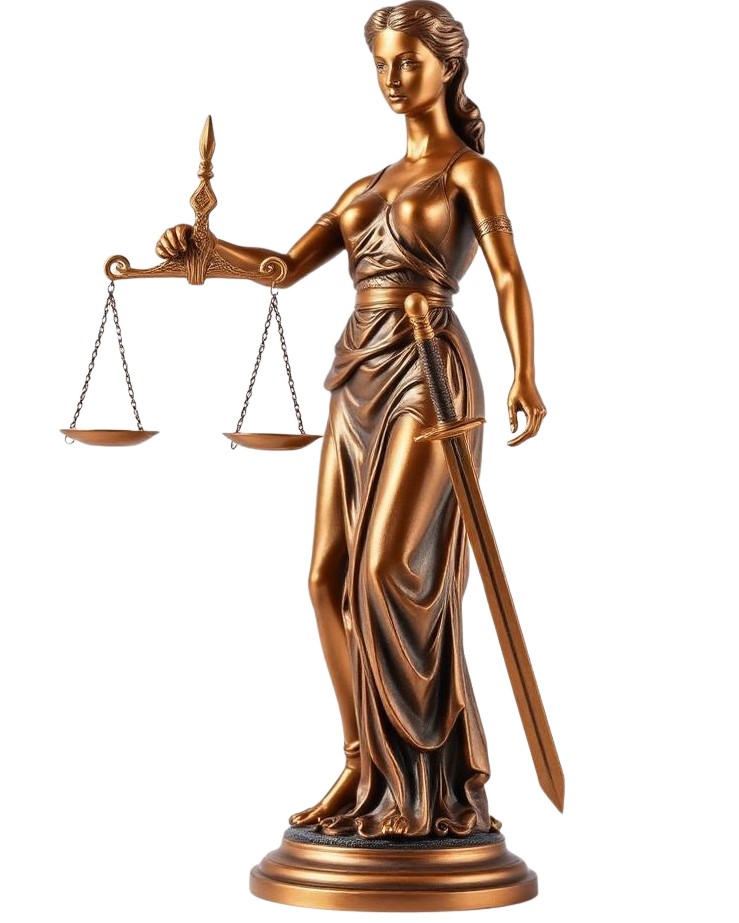
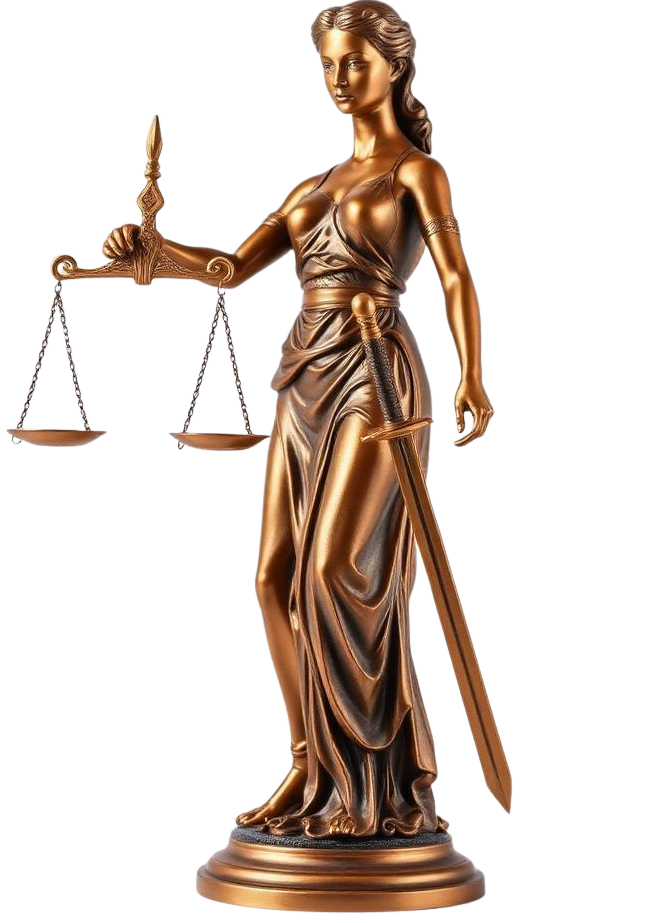
fixed features section

Changed region(s): [[0.0, 0.0, 0.7855, 1.0], [0.7251, 0.9404, 0.7553, 0.9707]]

diff --git a/frontend/components/story-section.tsx b/frontend/components/story-section.tsx
@@ -1,9 +1,111 @@
-"use client"
+import React from "react";
+import Image from "next/image";
+import Link from "next/link";
 
-import { Button } from "@/components/ui/button"
-import { Scale, Shield, Award, Star } from "lucide-react"
-import Image from "next/image"
-
-export default function StorySection() {
-  return null
+interface BenefitItem {
+  title: string;
+  description: string;
 }
+
+interface BenefitsCardProps {
+  title?: string;
+  subtitle?: string;
+  buttonText?: string;
+  imageUrl?: string;
+  imageAlt?: string;
+  benefits?: BenefitItem[];
+  onButtonClick?: () => void;
+}
+
+const defaultBenefits: BenefitItem[] = [
+  {
+    title: "Legal representation",
+    description:
+      "This can include criminal defense, civil litigation, and various legal specializations.",
+  },
+  {
+    title: "Allegations",
+    description: "You have a right to know every detail of the allegations.",
+  },
+  {
+    title: "Support",
+    description: "Our team is available 24/7 to provide help and support.",
+  },
+];
+
+const BenefitsCard: React.FC<BenefitsCardProps> = ({
+  title = "WHAT BENEFITS WILL YOU GET FROM US?",
+  subtitle = "We provide high quality law service for you with best integrated people.",
+  buttonText = "FIND ATTORNEY",
+  imageUrl = "https://images.unsplash.com/photo-1589829545856-d10d557cf95f?ixlib=rb-4.0.3&ixid=M3wxMjA3fDB8MHxwaG90by1wYWdlfHx8fGVufDB8fHx8fA%3D%3D&auto=format&fit=crop&w=1000&q=80",
+  imageAlt = "Professional lawyer in judge robe holding gavel and book",
+  benefits = defaultBenefits,
+  onButtonClick,
+}) => {
+  return (
+    <section className="bg-[#261B1A] text-stone-100 py-16 px-4 sm:px-6 lg:px-8 ">
+      <div className="max-w-7xl mx-auto">
+        <div className="grid grid-cols-1 lg:grid-cols-12 gap-8 lg:gap-12 items-center">
+          {/* Left Section - Text Content */}
+          <div className="lg:col-span-4 flex items-start h-full flex-col justify-center space-y-6">
+            <h1 className="font-baskervville text-3xl sm:text-4xl lg:text-5xl xl:text-6xl font-light leading-tight tracking-wide text-stone-100 uppercase">
+              {title}
+            </h1>
+
+            <p className="font-montserrat text-stone-300 text-base sm:text-lg leading-relaxed max-w-md">
+              {subtitle}
+            </p>
+
+            <div className="pt-4">
+              <button className="relative h-8 group flex items-center px-8 py-2  bg-stone-200 text-amber-950  text-md font-normal font-baskervville cursor-pointer overflow-hidden transition-colors duration-300 select-none">
+                <Link className="z-10" href="/login">
+                  Find Attorney
+                </Link>
+                <span className="absolute left-0 w-[9em] aspect-square bg-[#261B1A] opacity-100 rounded-[100%] -translate-x-32"></span>
+                <span className="absolute right-0 w-[9em] aspect-square bg-[#261B1A] opacity-100 rounded-[100%] translate-x-32"></span>
+              </button>
+            </div>
+          </div>
+
+          {/* Center Section - Image */}
+          <div className="lg:col-span-4 flex justify-center">
+            <div className="relative">
+              {/* Background paper effect */}
+              <div className="absolute inset-0 bg-stone-100 transform rotate-3 rounded-lg shadow-xl"></div>
+
+              {/* Main image container */}
+              <div className="relative bg-stone-100 rounded-lg overflow-hidden shadow-2xl">
+                <div className="aspect-[3/4] w-full max-w-sm mx-auto">
+                  <Image
+                    src={imageUrl}
+                    alt={imageAlt}
+                    fill
+                    className="object-cover object-center"
+                    sizes="(max-width: 768px) 100vw, (max-width: 1200px) 50vw, 33vw"
+                    priority
+                  />
+                </div>
+              </div>
+            </div>
+          </div>
+
+          {/* Right Section - Benefits */}
+          <div className="lg:col-span-4 space-y-6">
+            {benefits.map((benefit, index) => (
+              <div key={index} className="space-y-2">
+                <h3 className="font-montserrat font-semibold text-lg text-stone-100">
+                  {benefit.title}
+                </h3>
+                <p className="font-montserrat text-stone-400 text-sm leading-relaxed">
+                  {benefit.description}
+                </p>
+              </div>
+            ))}
+          </div>
+        </div>
+      </div>
+    </section>
+  );
+};
+
+export default BenefitsCard;

diff --git a/frontend/components/ui/flip-words.tsx b/frontend/components/ui/flip-words.tsx
@@ -1,0 +1,101 @@
+"use client";
+import React, { useCallback, useEffect, useRef, useState } from "react";
+import { AnimatePresence, motion, LayoutGroup } from "motion/react";
+import { cn } from "@/lib/utils";
+import { Baskervville } from "next/font/google";
+
+const baskervville = Baskervville({
+  subsets: ["latin"],
+  weight: ["400"],
+  style: ["italic", "normal"],
+  variable: "--font-baskervville",
+});
+export const FlipWords = ({
+  words,
+  duration = 800,
+  className,
+}: {
+  words: string[];
+  duration?: number;
+  className?: string;
+}) => {
+  const [currentWord, setCurrentWord] = useState(words[0]);
+  const [isAnimating, setIsAnimating] = useState<boolean>(false);
+
+  // thanks for the fix Julian - https://github.com/Julian-AT
+  const startAnimation = useCallback(() => {
+    const word = words[words.indexOf(currentWord) + 1] || words[0];
+    setCurrentWord(word);
+    setIsAnimating(true);
+  }, [currentWord, words]);
+
+  useEffect(() => {
+    if (!isAnimating)
+      setTimeout(() => {
+        startAnimation();
+      }, duration);
+  }, [isAnimating, duration, startAnimation]);
+
+  return (
+    <AnimatePresence
+      onExitComplete={() => {
+        setIsAnimating(false);
+      }}
+    >
+      <motion.div
+        initial={{
+          opacity: 0,
+          y: 10,
+        }}
+        animate={{
+          opacity: 1,
+          y: 0,
+        }}
+        transition={{
+          type: "spring",
+          stiffness: 100,
+          damping: 10,
+        }}
+        exit={{
+          opacity: 0,
+          y: -40,
+          x: 40,
+          filter: "blur(8px)",
+          scale: 2,
+          position: "absolute",
+        }}
+        className={cn("inline-block relative text-left px-2", className)}
+        key={currentWord}
+      >
+        {currentWord.split(" ").map((word, wordIndex) => (
+          <motion.span
+            key={word + wordIndex}
+            initial={{ opacity: 0, y: 10, filter: "blur(8px)" }}
+            animate={{ opacity: 1, y: 0, filter: "blur(0px)" }}
+            transition={{
+              delay: wordIndex * 0.3,
+              duration: 0.3,
+            }}
+            className="inline-block whitespace-nowrap"
+          >
+            {word.split("").map((letter, letterIndex) => (
+              <motion.span
+                key={word + letterIndex}
+                initial={{ opacity: 0, y: 10, filter: "blur(8px)" }}
+                animate={{ opacity: 1, y: 0, filter: "blur(0px)" }}
+                transition={{
+                  delay: wordIndex * 0.3 + letterIndex * 0.05,
+                  duration: 0.2,
+                }}
+                className={`${baskervville.className} inline-block text-[8rem] md:text-[12rem] lg:text-[19rem] font-light bg-gradient-to-b from-[#efe6d3] via-[#ede6d3] to-[#f2ebde] text-transparent bg-clip-text select-none `}
+              >
+                {letter}
+              </motion.span>
+            ))}
+            <span className="inline-block">&nbsp;</span>
+          </motion.span>
+        ))}
+      </motion.div>
+    </AnimatePresence>
+  );
+};

diff --git a/frontend/components/hero-section.tsx b/frontend/components/hero-section.tsx
@@ -7,6 +7,8 @@ import Image from "next/image";
 import TrueFocus from "@/app/components/TrueFocus/TrueFocus";
 import { Baskervville, Montserrat } from "next/font/google";
 import { cn } from "@/lib/utils";
+import TextRotate from "@/fancy/components/text/text-rotate";
+import { FlipWords } from "./ui/flip-words";
 
 const baskervville = Baskervville({
   subsets: ["latin"],
@@ -26,9 +28,12 @@ export default function HeroSection() {
       {/* Faded Background Text */}
       <div className="absolute top-36 inset-0 flex items-center justify-center pointer-events-none">
         <h1
-          className={`text-[8rem] font-baskervville md:text-[12rem] lg:text-[19rem] opacity-50 font-light bg-gradient-to-b from-[#efe6d3] via-[#ede6d3] to-[#f2ebde] text-transparent bg-clip-text tracking-widest select-none whitespace-nowrap`}
+          className={`text-[8rem] font-baskervville md:text-[12rem] lg:text-[19rem] font-light bg-gradient-to-b from-[#efe6d3] via-[#ede6d3] to-[#f2ebde] text-transparent bg-clip-text select-none whitespace-nowrap`}
         >
-          LAWYER
+          <FlipWords
+            className="text-[8rem] font-baskervville md:text-[12rem] lg:text-[19rem] font-light bg-gradient-to-b from-[#efe6d3] via-[#ede6d3] to-[#f2ebde] text-transparent bg-clip-text select-none whitespace-nowrap"
+            words={["Lawyer", "Advisor", "Analyst"]}
+          />
         </h1>
       </div>
 
@@ -52,7 +57,7 @@ export default function HeroSection() {
                 baskervville.className
               )}
             >
-              let AI handle the legal work.
+              let AI handle the compliance ops.
             </span>
           </h1>
         </div>
@@ -150,13 +155,13 @@ export default function HeroSection() {
         {/* Mobile Layout - Stack vertically on smaller screens */}
         <div className="lg:hidden flex-grow flex flex-col items-center justify-center space-y-8 pt-8">
           {/* Statue Image */}
-          <div className="relative bg-[#E8DDD1] rounded-3xl p-6 w-full max-w-sm">
+          <div className="relative bg-[#E8DDD1] rounded-3xl p-6 w-full ">
             <div className="relative w-full h-80">
               <Image
                 src="/images/lady-justice-statue.png"
                 alt="Lady Justice Statue"
                 fill
-                className="object-contain drop-shadow-2xl"
+                className="object-none drop-shadow-2xl"
                 priority
               />
             </div>
@@ -171,7 +176,9 @@ export default function HeroSection() {
                 <div className="w-0 h-0 border-l-[4px] border-r-[4px] border-t-[8px] border-l-transparent border-r-transparent border-t-[#2A2A2A]"></div>
               </div>
               <div>
-                <p className={`text-sm font-light text-[#2A2A2A] leading-relaxed ${montserrat.className}`}>
+                <p
+                  className={`text-sm font-light text-[#2A2A2A] leading-relaxed ${montserrat.className}`}
+                >
                   Specialist Tax Lawyers
                   <br />
                   and Business Solicitors.

diff --git a/frontend/components/header.tsx b/frontend/components/header.tsx
@@ -5,6 +5,7 @@ import Link from "next/link";
 import { useRouter, usePathname } from "next/navigation";
 import { Button } from "@/components/ui/button";
 import { useAuth } from "@/lib/auth-context";
+import Image from "next/image";
 import {
   Menu,
   X,
@@ -119,10 +120,12 @@ export default function Header() {
             href={user ? "/dashboard" : "/"}
             className="flex items-center space-x-2"
           >
-            <div className="w-8 h-8 legal-icon-bg rounded-lg flex items-center justify-center">
-              <Scale className="w-5 h-5 text-white" />
+            <div className="w-8 h-8 rounded-lg flex items-center justify-center">
+              <Image src="/logo.png" alt="LegalEase" width={32} height={32} />
             </div>
-            <span className="text-xl font-bold legal-heading">LegalEase</span>
+            <span className="text-xl font-bold text-legal-brown">
+              LegalEase
+            </span>
           </Link>
 
           {/* Desktop Navigation */}
@@ -253,16 +256,21 @@ export default function Header() {
             ) : (
               // Login/Signup Buttons
               <div className="flex items-center space-x-3">
-                <Button
+                {/* <Button
                   variant="ghost"
                   asChild
-                  className="h-9 btn-legal-secondary"
+                  className="h-9 clip-inward-rounded btn-legal-secondary"
                 >
                   <Link href="/login">Login</Link>
-                </Button>
-                <Button className="btn-legal-primary h-9">
-                  <Link href="/signup">Free Consultation</Link>
-                </Button>
+                </Button> */}
+                <button className="relative h-8 group flex items-center px-8 py-2  bg-legal-brown text-white text-md font-normal font-baskervville cursor-pointer overflow-hidden transition-colors duration-300 select-none">
+                  <Link className="z-10" href="/login">
+                    Get Started
+                  </Link>
+                  <span className="absolute left-0 w-[9em] aspect-square bg-[#F8F3EE] opacity-100 rounded-[100%] -translate-x-32"></span>
+                  <span className="absolute right-0 w-[9em] aspect-square bg-[#F8F3EE] opacity-100 rounded-[100%] translate-x-32"></span>
+                </button>
+
               </div>
             )}
           </div>

diff --git a/frontend/app/globals.css b/frontend/app/globals.css
@@ -4,6 +4,7 @@
 
 /* Import Google Fonts for Legal Theme */
 @import url('https://fonts.googleapis.com/css2?family=Playfair+Display:wght@400;500;600;700&family=Source+Serif+Pro:wght@400;600&family=Inter:wght@400;500;600&display=swap');
+@import url('https://fonts.googleapis.com/css2?family=Baskervville:ital,wght@0,400..700;1,400..700&family=Montserrat:ital,wght@0,100..900;1,100..900&display=swap');
 
 @layer base {
   :root {
@@ -63,6 +64,19 @@
 .font-baskervville{
   font-family: var(--font-baskervville);
 } */
+.font-montserrat{
+  font-family: "Montserrat", sans-serif;
+  font-optical-sizing: auto;
+  font-weight: 400;
+  font-style: normal;
+}
+.font-baskervville {
+  font-family: "Baskervville", serif;
+  font-optical-sizing: auto;
+  font-weight: 400;
+  font-style: normal;
+}
+
 /* Legal Theme Custom Styles */
 .legal-gradient-bg {
   background: linear-gradient(135deg, hsl(var(--legal-cream)) 0%, hsl(var(--legal-beige)) 50%, hsl(var(--legal-warm-white)) 100%);
@@ -95,7 +109,11 @@
 .legal-feature-card {
   @apply bg-white dark:bg-gray-800/50 rounded-xl p-6 border border-amber-200 dark:border-amber-800 shadow-lg;
 }
-
+@layer utilities {
+  .clip-inward-rounded {
+    clip-path: path("M20,0 H244 C260,0 260,48 244,48 H20 C4,48 4,0 20,0 Z");
+  }
+}
 .legal-professional-card {
   @apply bg-white dark:bg-gray-800/50 rounded-xl p-6 border border-amber-200 dark:border-amber-800 shadow-lg hover:shadow-xl transition-all duration-300;
 }

diff --git a/frontend/app/components/TrueFocus/TrueFocus.tsx b/frontend/app/components/TrueFocus/TrueFocus.tsx
@@ -85,7 +85,7 @@ const TrueFocus: React.FC<TrueFocusProps> = ({
   let lastWord = [words.slice(3).join(" ")];
   return (
     <div
-      className={`${baskervville.className} relative flex gap-4 justify-center items-center flex-wrap`}
+      className={`font-montserrat relative flex gap-4 justify-center items-center flex-wrap`}
       ref={containerRef}
     >
       {words.slice(0, 3).map((word, index) => {
@@ -94,7 +94,7 @@ const TrueFocus: React.FC<TrueFocusProps> = ({
           <span
             key={index}
             ref={(el) => (wordRefs.current[index] = el)}
-            className={`relative text-[3rem] text-legal-brow cursor-pointer  ${baskervville.className}`}
+            className={`relative text-[3rem] text-legal-brow cursor-pointer font-baskervville`}
             style={
               {
                 filter: manualMode
